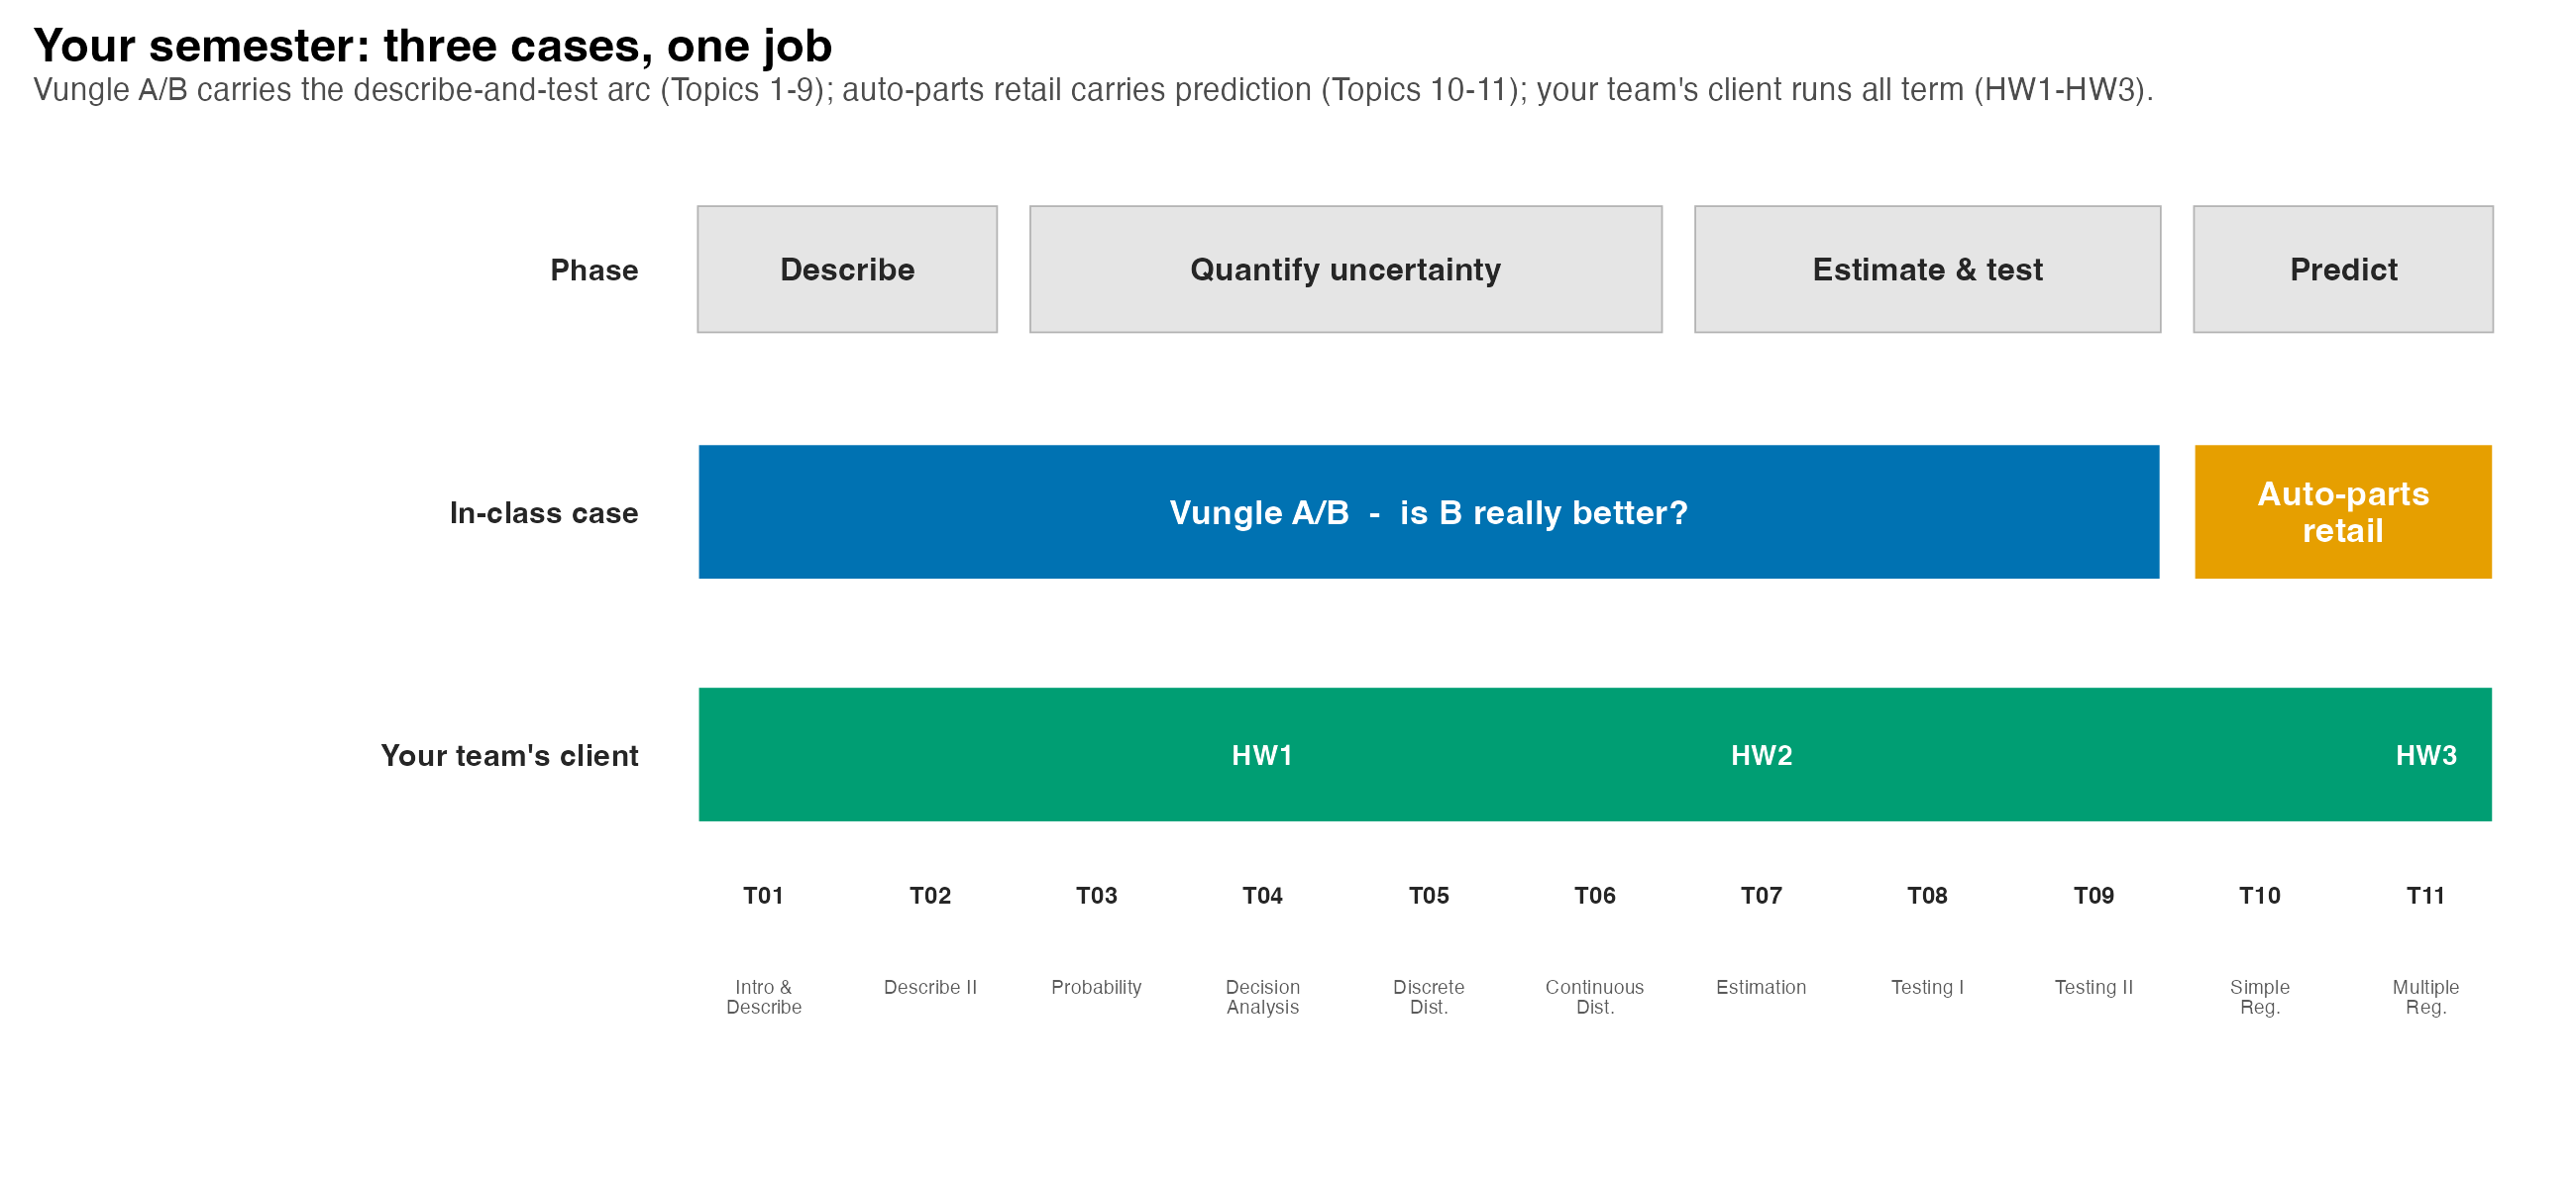
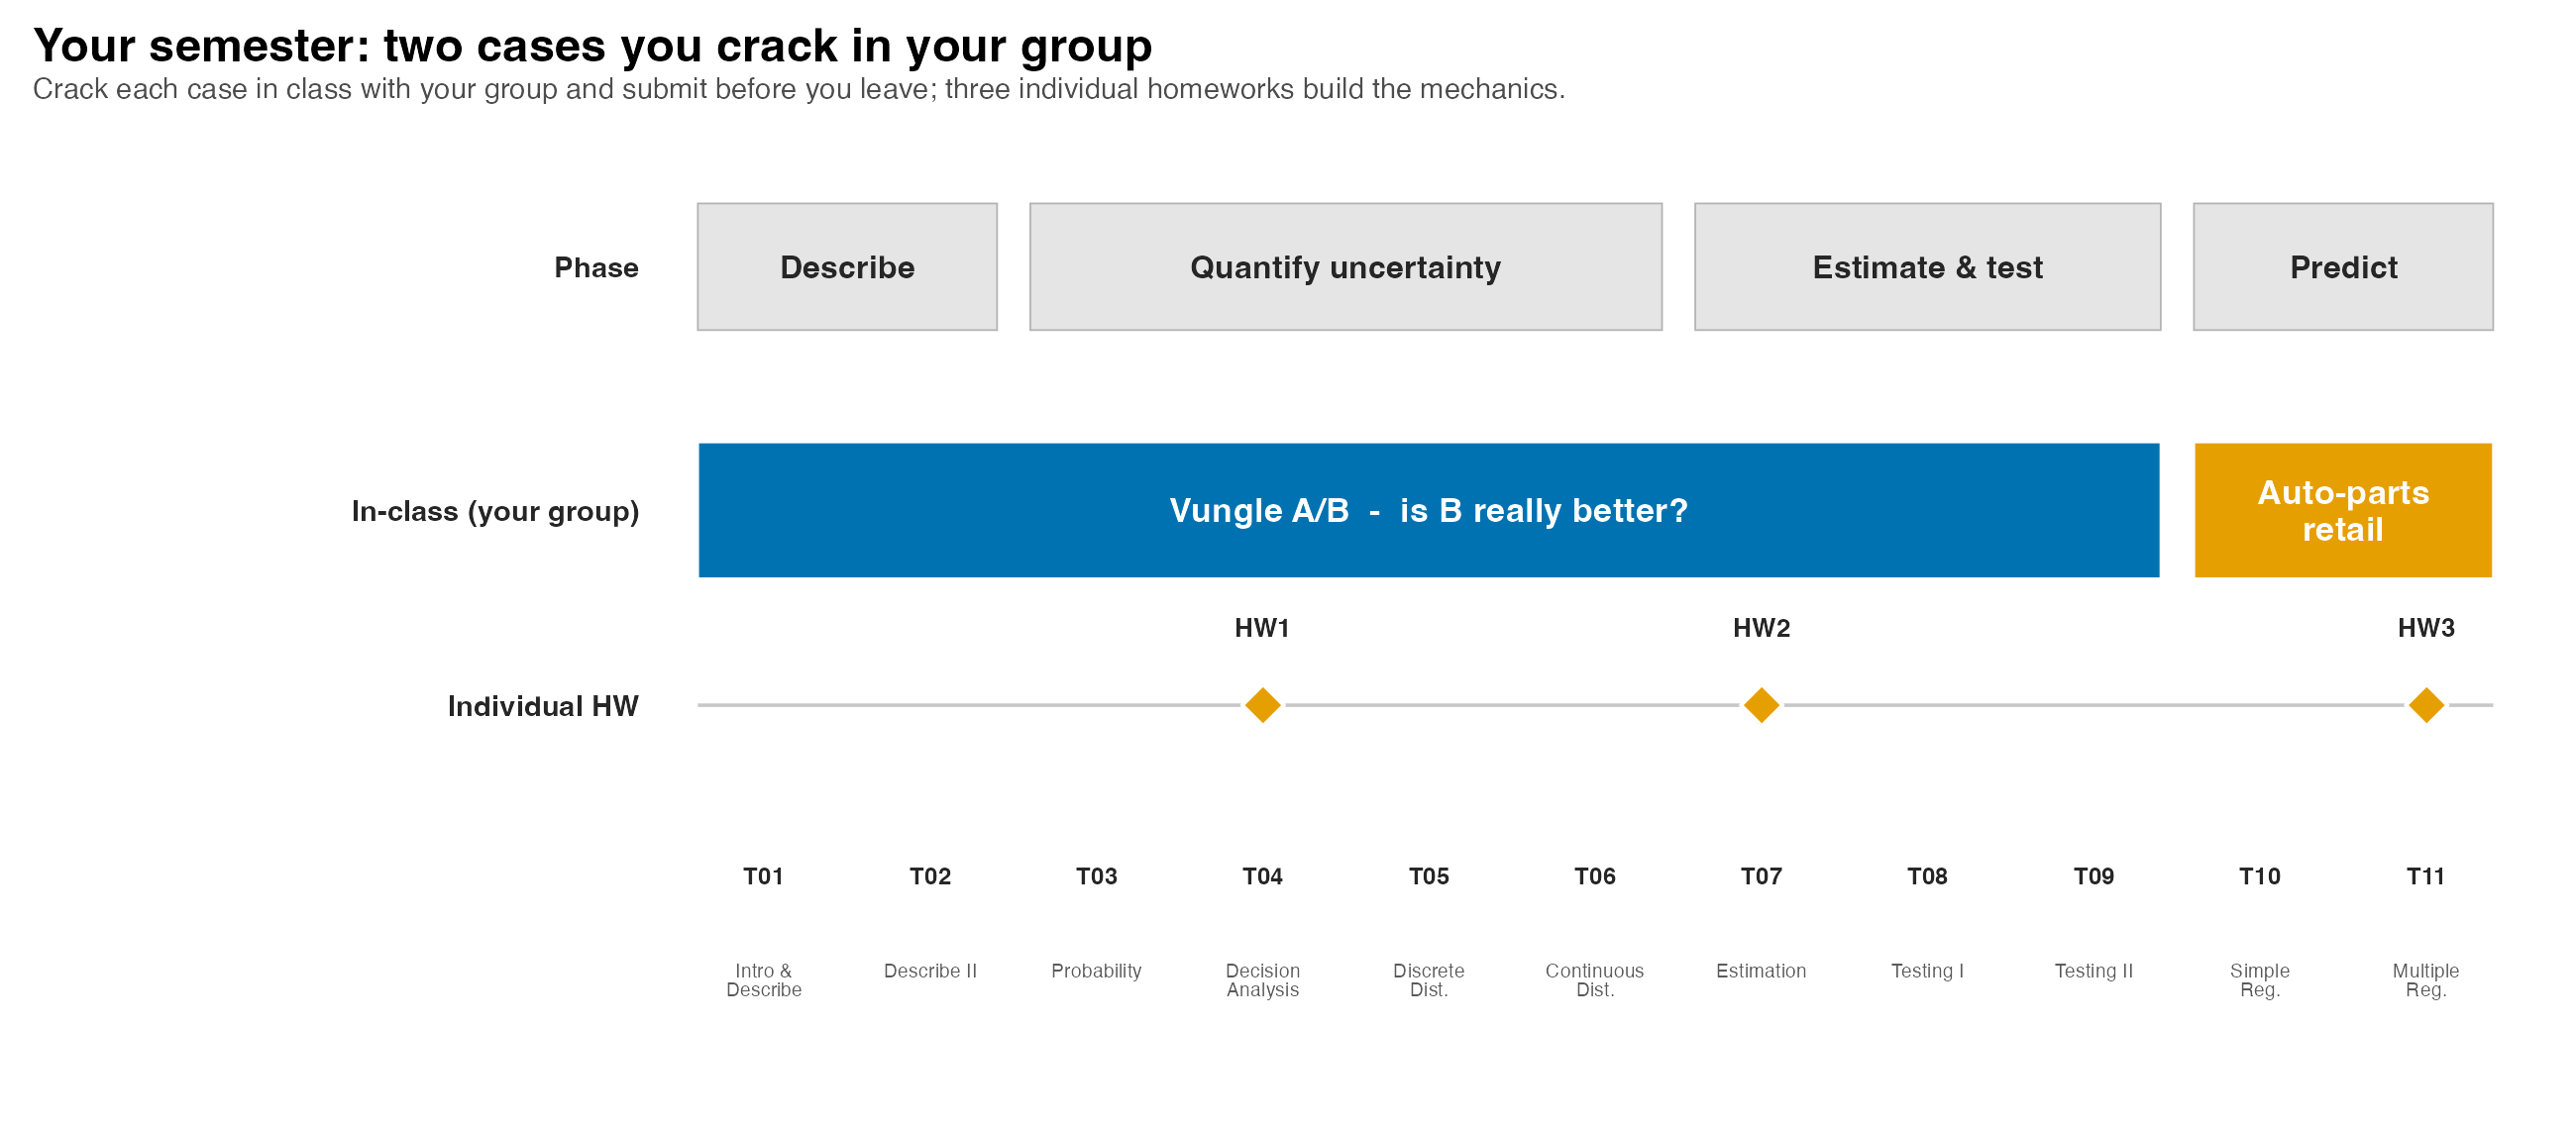
T01 reorder + course redesign: in-class group cases, individual homework
Course design (CLAUDE.md #3/#9, active_learning_design, syllabus):
- Problem-solve every class in FIXED RANDOM GROUPS; each group submits a graded
  deliverable on Brightspace before the end of class (a grader scores it). The
  studio Team Sprint IS that graded group submission.
- Homework reverts to 3 INDIVIDUAL problem sets (prior-edition / Thanh format);
  the "team-owned client" model is retired.
- Grading: Attendance 1% (iClicker, 85% target) / Participation 4% / In-class
  group cases 20% / Homework 15% / Midterm 25% / Final 35%. Syllabus updated.

T01:
- Reorder: "Your Semester" overview now comes BEFORE the Vungle Case Spotlight;
  the rest of the material follows, anchored to the Vungle dataset.
- Reframed to two shared in-class cases worked in your group + individual HW;
  new "How the Class Works" slide; Team Sprint -> "submit before you leave";
  redesigned roadmap figure (in-class group lane + 3 individual-HW diamonds);
  Overview/How-to-Succeed/Carry-forward/Summary updated. Lecture guide synced
  with a grader rubric for the T01 submission.

Verified: 0 HARD voice/role flags; re-rendered; 0 overflow on changed slides.

diff --git a/docs/lecture_slides/01_chapter_data_statistics/01_chapter_data_statistics.html b/docs/lecture_slides/01_chapter_data_statistics/01_chapter_data_statistics.html
@@ -154,9 +154,9 @@ Professor: Davi Moreira
 <div class="columns">
 <div class="column" style="width: 50%; text-align: center; justify-content: center; align-items: center;">
 <ul>
-<li>Introductions &amp; course logistics</li>
+<li>Introductions, logistics &amp; your group</li>
+<li><strong>The semester roadmap: two cases, one job</strong></li>
 <li><strong>Case Spotlight: A/B Testing at Vungle</strong></li>
-<li><strong>The semester roadmap: three business cases</strong></li>
 <li>What is statistics? Where is it used?</li>
 <li>The map: descriptive vs.&nbsp;inferential</li>
 </ul>
@@ -277,9 +277,19 @@ Professor: Davi Moreira
 <ul>
 <li class="fragment"><p><strong>Start from zero, by design.</strong> No prior statistics is assumed — this is your first analytics course, and we build every method up from a real business decision.</p></li>
 <li class="fragment"><p><strong>Keep up every week.</strong> Statistics builds on itself — today’s vocabulary becomes next week’s formulas. Falling behind compounds.</p></li>
-<li class="fragment"><p><strong>Work with your team.</strong> Homework is team-based by design; explaining a concept to a teammate is the fastest way to learn it.</p></li>
+<li class="fragment"><p><strong>Work with your group.</strong> In-class cases are solved and submitted together; homework you do on your own. Explaining a method to a groupmate is the fastest way to learn it.</p></li>
 <li class="fragment"><p><strong>You’re the decision-maker.</strong> Every method we learn answers a call <em>you</em> have to make. Learn each one well enough to check an analyst’s work, and always ask: <em>what decision does this number support, and would I stake money on it?</em></p></li>
 <li class="fragment"><p><strong>Use Excel from day one.</strong> Install the Analysis ToolPak this week and open the course dataset — you will use it all semester.</p></li>
+</ul>
+</section>
+<section id="how-the-class-works" class="slide level2 center">
+<h2>How the Class Works</h2>
+<p><br></p>
+<ul>
+<li class="fragment"><p><strong>Your group:</strong> you’ll be randomly assigned to a <strong>fixed group</strong> this week and work every in-class case with it.</p></li>
+<li class="fragment"><p><strong>Submit before you leave:</strong> each class your group turns in one deliverable on <strong>Brightspace</strong> — your decision plus the evidence. A grader scores it.</p></li>
+<li class="fragment"><p><strong>Bring a laptop</strong> with <strong>Excel + the Analysis ToolPak</strong> to every session.</p></li>
+<li class="fragment"><p><strong>Homework is individual:</strong> three problem sets that drill the mechanics, posted on Brightspace.</p></li>
 </ul>
 </section></section>
 <section>
@@ -324,6 +334,42 @@ Professor: Davi Moreira
 </center>
 </section></section>
 <section>
+<section id="your-semester-two-cases-one-job" class="title-slide slide level1 center" data-background-color="#cfb991">
+<h1>Your Semester: Two Cases, One Job</h1>
+
+</section>
+<section id="youre-the-decision-maker-two-cases-to-crack" class="slide level2 center">
+<h2>You’re the Decision-Maker — Two Cases to Crack</h2>
+<p><br></p>
+<ul>
+<li class="fragment">This course puts <strong>you in the decision-maker’s seat</strong>: the manager, CEO, or owner who has to act. You’ll work in a <strong>fixed group</strong> (assigned this week), cracking real cases in class and judging the analysis behind every call.</li>
+</ul>
+<div class="fragment">
+<ul>
+<li class="fragment"><strong>① Vungle A/B — Topics 1–9 (up first).</strong> A mobile ad-tech startup asking <em>roll out algorithm B, or keep A?</em> You’ll learn to <strong>describe, quantify uncertainty, and test</strong> so you can judge that claim before betting the company on it.</li>
+</ul>
+</div>
+<div class="fragment">
+<ul>
+<li class="fragment"><strong>② Auto-parts retail — Topics 10–11.</strong> A 45-store chain asking <em>where should the next dollar go?</em> You’ll <strong>evaluate the analyst’s model</strong> that predicts store sales, then decide where to invest.</li>
+</ul>
+</div>
+<div class="fragment">
+<ul>
+<li class="fragment"><strong>Every class:</strong> your group works the case live and <strong>submits its call before you leave</strong> (graded). <strong>Homework</strong> is separate and <strong>individual</strong> — problem sets that drill the mechanics.</li>
+</ul>
+</div>
+</section>
+<section id="the-roadmap-which-case-which-week" class="slide level2 center">
+<h2>The Roadmap: Which Case, Which Week</h2>
+<p>Every case runs the same path: <strong>describe → quantify the uncertainty → test → predict.</strong> You crack it in your group and submit before you leave; three <strong>individual</strong> homeworks build the mechanics:</p>
+<div class="quarto-figure quarto-figure-center">
+<figure>
+<p><img data-src="figs/course_roadmap.png" class="quarto-figure quarto-figure-center" style="width:72.0%"></p>
+</figure>
+</div>
+</section></section>
+<section>
 <section id="case-spotlight-ab-testing-at-vungle" class="title-slide slide level1 center" data-background-color="#cfb991">
 <h1>Case Spotlight: A/B Testing at Vungle</h1>
 
@@ -335,8 +381,8 @@ Professor: Davi Moreira
 <li class="fragment"><p><a href="https://en.wikipedia.org/wiki/Liftoff_Mobile">Vungle</a> is a mobile ad-tech startup: it serves 15-second video ads inside other apps and earns revenue mainly when a viewer <strong>installs</strong> the advertised app.</p></li>
 <li class="fragment"><p>The metric that pays the bills is <strong>eRPM</strong> — effective revenue per 1,000 impressions.</p></li>
 <li class="fragment"><p>In June 2014, two analysts built a new ad-serving algorithm (<strong>B</strong>) and ran it head-to-head against the current one (<strong>A</strong>) for the whole month.</p></li>
-<li class="fragment"><p><strong>The CEO’s question:</strong> <em>roll out B to all advertisers, or stay with A?</em></p></li>
-<li class="fragment"><p>We will use this one decision — <em>is B better than A?</em> — to motivate <strong>every</strong> tool in this course.</p></li>
+<li class="fragment"><p><strong>Your call as Vungle’s CEO:</strong> <em>roll out B to all advertisers, or stay with A?</em></p></li>
+<li class="fragment"><p>We will use this one decision (<em>is B better than A?</em>) to motivate <strong>every</strong> tool in this course.</p></li>
 </ul>
 </section>
 <section id="the-data-behind-the-decision" class="slide level2 center">
@@ -360,42 +406,6 @@ Professor: Davi Moreira
 </ul></li>
 <li class="fragment"><p>Answering those is the job of this course. <strong>Today we start at the foundation: what is this data?</strong></p></li>
 </ul>
-</section></section>
-<section>
-<section id="your-semester-three-cases-one-job" class="title-slide slide level1 center" data-background-color="#cfb991">
-<h1>Your Semester: Three Cases, One Job</h1>
-
-</section>
-<section id="youre-the-decision-maker-three-calls-to-make" class="slide level2 center">
-<h2>You’re the Decision-Maker — Three Calls to Make</h2>
-<p><br></p>
-<ul>
-<li class="fragment">This course puts <strong>you in the decision-maker’s seat</strong>: the manager, CEO, or owner who has to act. On each case an analyst proposes; <strong>your job is to understand the analysis well enough to check it, challenge it, and decide.</strong> Three cases, three calls:</li>
-</ul>
-<div class="fragment">
-<ul>
-<li class="fragment"><strong>① Vungle A/B — Topics 1–9 (your first call).</strong> You’re the executive: <em>roll out algorithm B, or keep A?</em> The analysts say B looks better. You’ll learn to <strong>describe, quantify uncertainty, and test</strong> so you can judge that claim before betting the company on it.</li>
-</ul>
-</div>
-<div class="fragment">
-<ul>
-<li class="fragment"><strong>② Auto-parts retail — Topics 10–11 (your second call).</strong> Now you run a 45-store chain: <em>where should the next dollar go?</em> You’ll <strong>evaluate the analyst’s model</strong> that predicts store sales, then decide where to invest.</li>
-</ul>
-</div>
-<div class="fragment">
-<ul>
-<li class="fragment"><strong>③ Your team’s client — every week (you own it).</strong> Your team is the <strong>management</strong> of a real company. Each homework you receive an analysis, reproduce and check it, and <strong>make the call</strong>, graded against the textbook’s own solution.</li>
-</ul>
-</div>
-</section>
-<section id="the-roadmap-which-case-which-week" class="slide level2 center">
-<h2>The Roadmap: Which Case, Which Week</h2>
-<p>Every case runs the same path: <strong>describe → quantify the uncertainty → test → predict.</strong> Three graded checkpoints (<strong>HW1 ≈ Topic 4, HW2 ≈ Topic 7, HW3 ≈ Topic 11</strong>) mark the way:</p>
-<div class="quarto-figure quarto-figure-center">
-<figure>
-<p><img data-src="figs/course_roadmap.png" class="quarto-figure quarto-figure-center" style="width:72.0%"></p>
-</figure>
-</div>
 </section></section>
 <section>
 <section id="what-is-statistics" class="title-slide slide level1 center" data-background-color="#cfb991">
@@ -959,7 +969,7 @@ Professor: Davi Moreira
 <li><strong>Audit the inputs:</strong> name the elements, variables, and the <strong>type &amp; scale</strong> of <code>algorithm</code> and <code>erpm</code>, so you know which numbers are even valid to compare.</li>
 <li><strong>Interrogate it:</strong> how big is B’s edge? Name <strong>two reasons</strong> it might not survive scrutiny (sample size, spread, traffic, the metric itself).</li>
 </ol>
-<p><strong>Hand in (1 slide):</strong> your <strong>call</strong> (roll out, wait, or send it back) plus the <strong>two weaknesses</strong> you would put to the analyst.</p>
+<p><strong>Submit before you leave (group, 1 slide):</strong> your <strong>call</strong> (roll out, wait, or send it back) plus the <strong>two weaknesses</strong> you would put to the analyst.</p>
 </div>
 </section>
 <section id="debrief-back-to-the-decision" class="slide level2 center">
@@ -1068,8 +1078,8 @@ Professor: Davi Moreira
 <section id="carry-forward" class="slide level2 center">
 <h2>Carry-forward</h2>
 <ul>
-<li><p><strong>Your client (homework):</strong> as your client’s management, open its dataset and write the <strong>data audit</strong> (elements, variables, type &amp; scale of each), then compute the <strong>mean and median</strong> of its main outcome — the first numbers you would demand before trusting any deeper analysis.</p></li>
-<li><p><strong>Next time:</strong> we go deeper into <em>describing</em> — spread, shape, the boxplot, and how two variables move together.</p></li>
+<li><p><strong>Today’s submission:</strong> your group’s roll-out call is your first graded deliverable — a real decision taken on day one.</p></li>
+<li><p><strong>Next time:</strong> we go deeper into <em>describing</em> — spread, shape, the boxplot, and how two variables move together. (Individual homework starts in a couple of weeks; watch Brightspace.)</p></li>
 </ul>
 </section>
 <section id="summary" class="slide level2 center">
@@ -1077,7 +1087,7 @@ Professor: Davi Moreira
 <p>The main points from this session:</p>
 <ul>
 <li><strong>Your seat all term:</strong> you are the <strong>decision-maker</strong> — you run every method yourself, but to <em>judge</em> the analysis and make the call, not to be the analyst.</li>
-<li><strong>Three cases drive the course:</strong> Vungle A/B (describe → test, Topics 1–9), auto-parts retail (predict, Topics 10–11), and your team’s own client (the three homeworks).</li>
+<li><strong>Two cases, worked in your group:</strong> Vungle A/B (describe → test, Topics 1–9) and auto-parts retail (predict, Topics 10–11); you submit a graded group call each class, and individual homework drills the mechanics.</li>
 <li><strong>Statistics</strong> turns data into defensible business decisions; it splits into <strong>descriptive</strong> (summarize) and <strong>inferential</strong> (generalize).</li>
 <li><strong>Data vocabulary:</strong> elements, variables, observations; categorical vs.&nbsp;quantitative; the four scales of measurement — and the rule that <strong>scale determines method</strong>.</li>
 <li><strong>Study design:</strong> Vungle ran a randomized <strong>experiment</strong>, which is what licenses <em>causal</em> claims.</li>